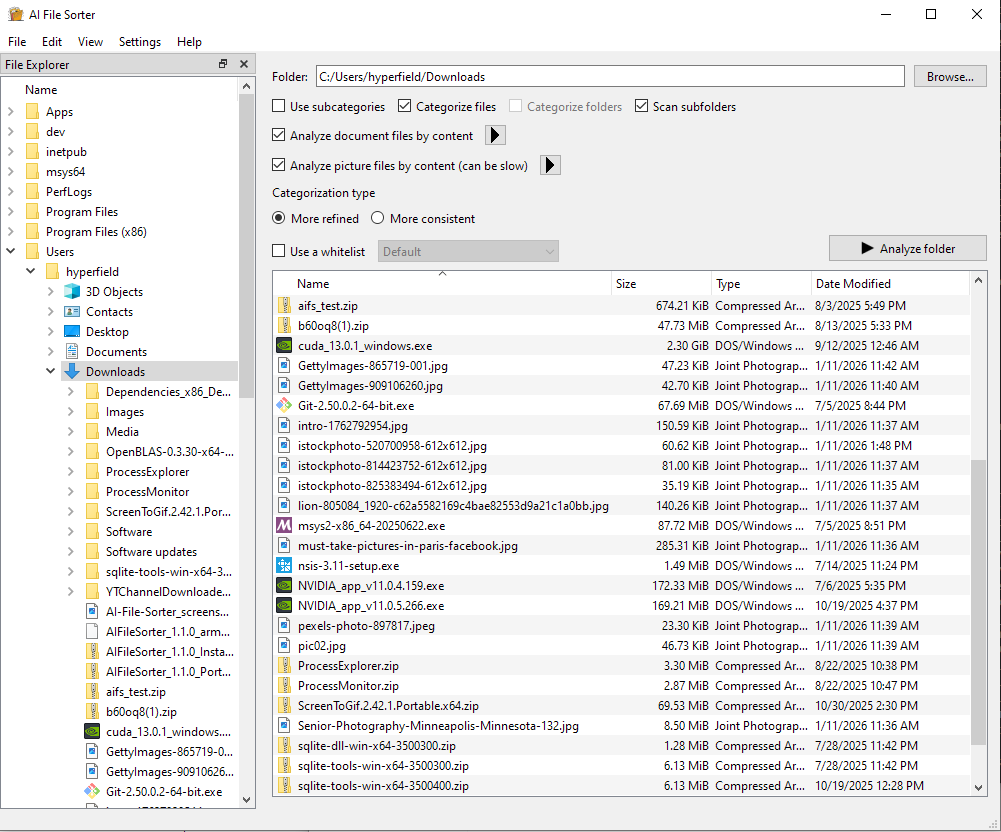
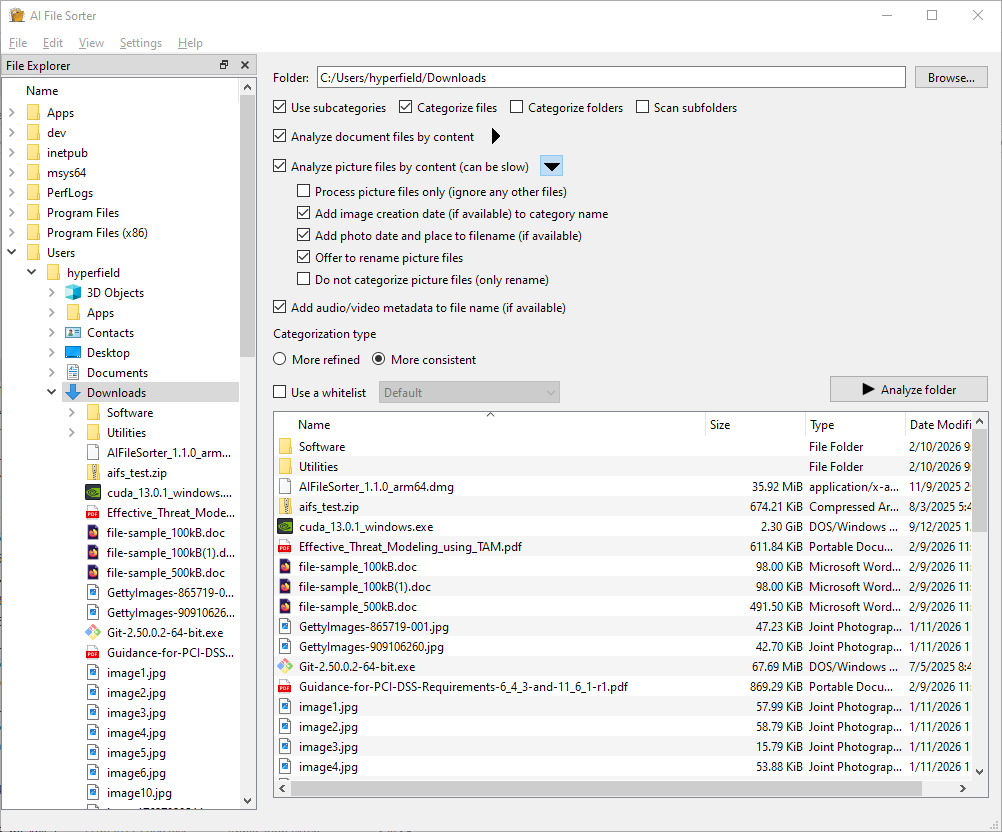
fix(ui): use standard disclosure arrows for analysis options

Changed region(s): [[0.0, 0.0, 1.0, 1.0], [0.5265, 0.0938, 0.7433, 0.1562], [0.6194, 0.3125, 0.6503, 0.3438]]

diff --git a/app/lib/MainAppUiBuilder.cpp b/app/lib/MainAppUiBuilder.cpp
@@ -29,12 +29,11 @@
 #include <QMenuBar>
 #include <QMessageBox>
 #include <QObject>
-#include <QPolygonF>
+#include <QPainter>
 #include <QPushButton>
 #include <QRadioButton>
 #include <QSlider>
 #include <QToolButton>
-#include <QPainter>
 #include <QSize>
 #include <QSizePolicy>
 #include <QStackedWidget>
@@ -45,49 +44,6 @@
 #include <QWidget>
 
 #include <algorithm>
-
-namespace {
-QPixmap make_triangle_pixmap(const QColor& color, int size, bool down)
-{
-    QPixmap pixmap(size, size);
-    pixmap.fill(Qt::transparent);
-
-    QPainter painter(&pixmap);
-    painter.setRenderHint(QPainter::Antialiasing, true);
-    painter.setPen(Qt::NoPen);
-    painter.setBrush(color);
-
-    QPolygonF triangle;
-    if (down) {
-        triangle << QPointF(size * 0.2, size * 0.35)
-                 << QPointF(size * 0.8, size * 0.35)
-                 << QPointF(size * 0.5, size * 0.75);
-    } else {
-        triangle << QPointF(size * 0.35, size * 0.2)
-                 << QPointF(size * 0.35, size * 0.8)
-                 << QPointF(size * 0.75, size * 0.5);
-    }
-    painter.drawPolygon(triangle);
-    return pixmap;
-}
-
-QIcon make_play_disclosure_icon(const QPalette& palette, int size)
-{
-    QIcon icon;
-    QColor normal = palette.color(QPalette::ButtonText);
-    QColor disabled = palette.color(QPalette::Disabled, QPalette::ButtonText);
-    if (!disabled.isValid()) {
-        disabled = normal;
-        disabled.setAlphaF(0.45);
-    }
-
-    icon.addPixmap(make_triangle_pixmap(normal, size, false), QIcon::Normal, QIcon::Off);
-    icon.addPixmap(make_triangle_pixmap(normal, size, true), QIcon::Normal, QIcon::On);
-    icon.addPixmap(make_triangle_pixmap(disabled, size, false), QIcon::Disabled, QIcon::Off);
-    icon.addPixmap(make_triangle_pixmap(disabled, size, true), QIcon::Disabled, QIcon::On);
-    return icon;
-}
-} // namespace
 
 void MainAppUiBuilder::build(MainApp& app) {
     build_central_panel(app);
@@ -135,17 +91,10 @@ void MainAppUiBuilder::build_central_panel(MainApp& app) {
     app.document_options_toggle_button = new QToolButton(central);
     app.document_options_toggle_button->setCheckable(true);
     app.document_options_toggle_button->setChecked(false);
-#if defined(__APPLE__)
-    app.document_options_toggle_button->setArrowType(Qt::NoArrow);
-    app.document_options_toggle_button->setAutoRaise(true);
-    app.document_options_toggle_button->setIcon(make_play_disclosure_icon(app.palette(), 14));
-    app.document_options_toggle_button->setIconSize(QSize(14, 14));
-#else
     app.document_options_toggle_button->setArrowType(Qt::RightArrow);
-    app.document_options_toggle_button->setAutoRaise(false);
-#endif
+    app.document_options_toggle_button->setAutoRaise(true);
     app.document_options_toggle_button->setToolButtonStyle(Qt::ToolButtonIconOnly);
-    app.document_options_toggle_button->setMinimumSize(QSize(22, 22));
+    app.document_options_toggle_button->setMinimumSize(QSize(18, 18));
     document_header_layout->addWidget(app.analyze_documents_checkbox);
     document_header_layout->addWidget(app.document_options_toggle_button);
     document_header_layout->addStretch(1);
@@ -175,17 +124,10 @@ void MainAppUiBuilder::build_central_panel(MainApp& app) {
     app.image_options_toggle_button = new QToolButton(central);
     app.image_options_toggle_button->setCheckable(true);
     app.image_options_toggle_button->setChecked(false);
-#if defined(__APPLE__)
-    app.image_options_toggle_button->setArrowType(Qt::NoArrow);
-    app.image_options_toggle_button->setAutoRaise(true);
-    app.image_options_toggle_button->setIcon(make_play_disclosure_icon(app.palette(), 14));
-    app.image_options_toggle_button->setIconSize(QSize(14, 14));
-#else
     app.image_options_toggle_button->setArrowType(Qt::RightArrow);
-    app.image_options_toggle_button->setAutoRaise(false);
-#endif
+    app.image_options_toggle_button->setAutoRaise(true);
     app.image_options_toggle_button->setToolButtonStyle(Qt::ToolButtonIconOnly);
-    app.image_options_toggle_button->setMinimumSize(QSize(22, 22));
+    app.image_options_toggle_button->setMinimumSize(QSize(18, 18));
     image_header_layout->addWidget(app.analyze_images_checkbox);
     image_header_layout->addWidget(app.image_options_toggle_button);
     image_header_layout->addStretch(1);

diff --git a/app/lib/MainApp.cpp b/app/lib/MainApp.cpp
@@ -1743,11 +1743,7 @@ void MainApp::update_document_analysis_controls()
     if (document_options_toggle_button) {
         document_options_toggle_button->setEnabled(analysis_enabled);
         const bool expanded = document_options_toggle_button->isChecked();
-#if defined(__APPLE__)
-        document_options_toggle_button->setArrowType(Qt::NoArrow);
-#else
         document_options_toggle_button->setArrowType(expanded ? Qt::DownArrow : Qt::RightArrow);
-#endif
         if (document_options_container) {
             document_options_container->setVisible(analysis_enabled && expanded);
         }
